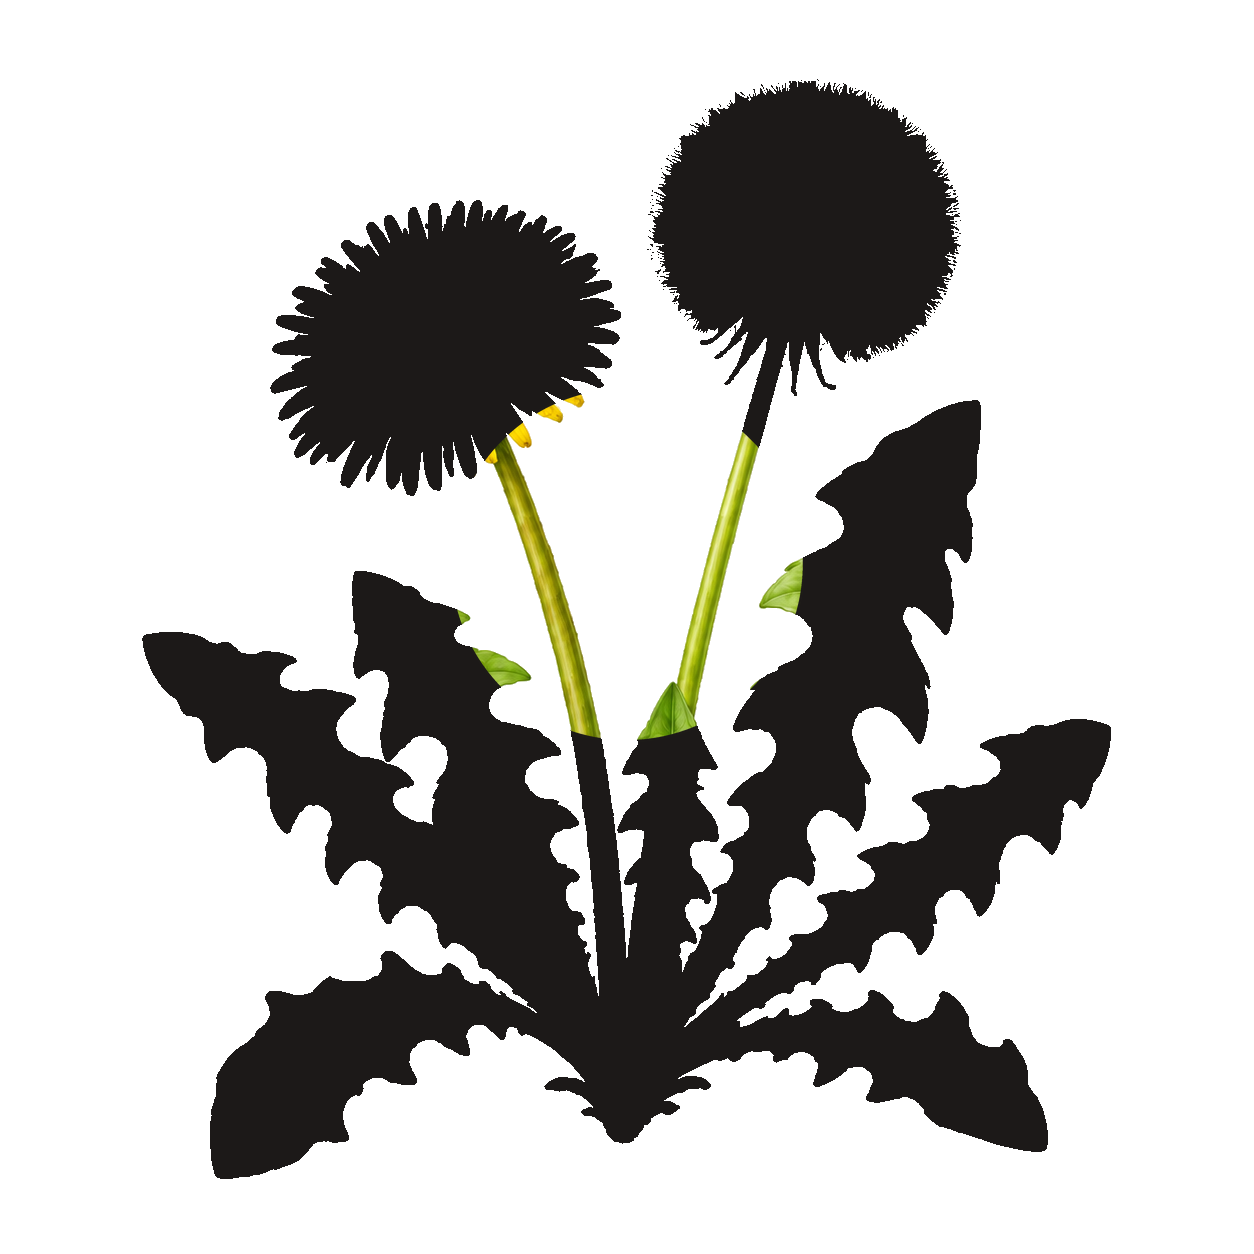
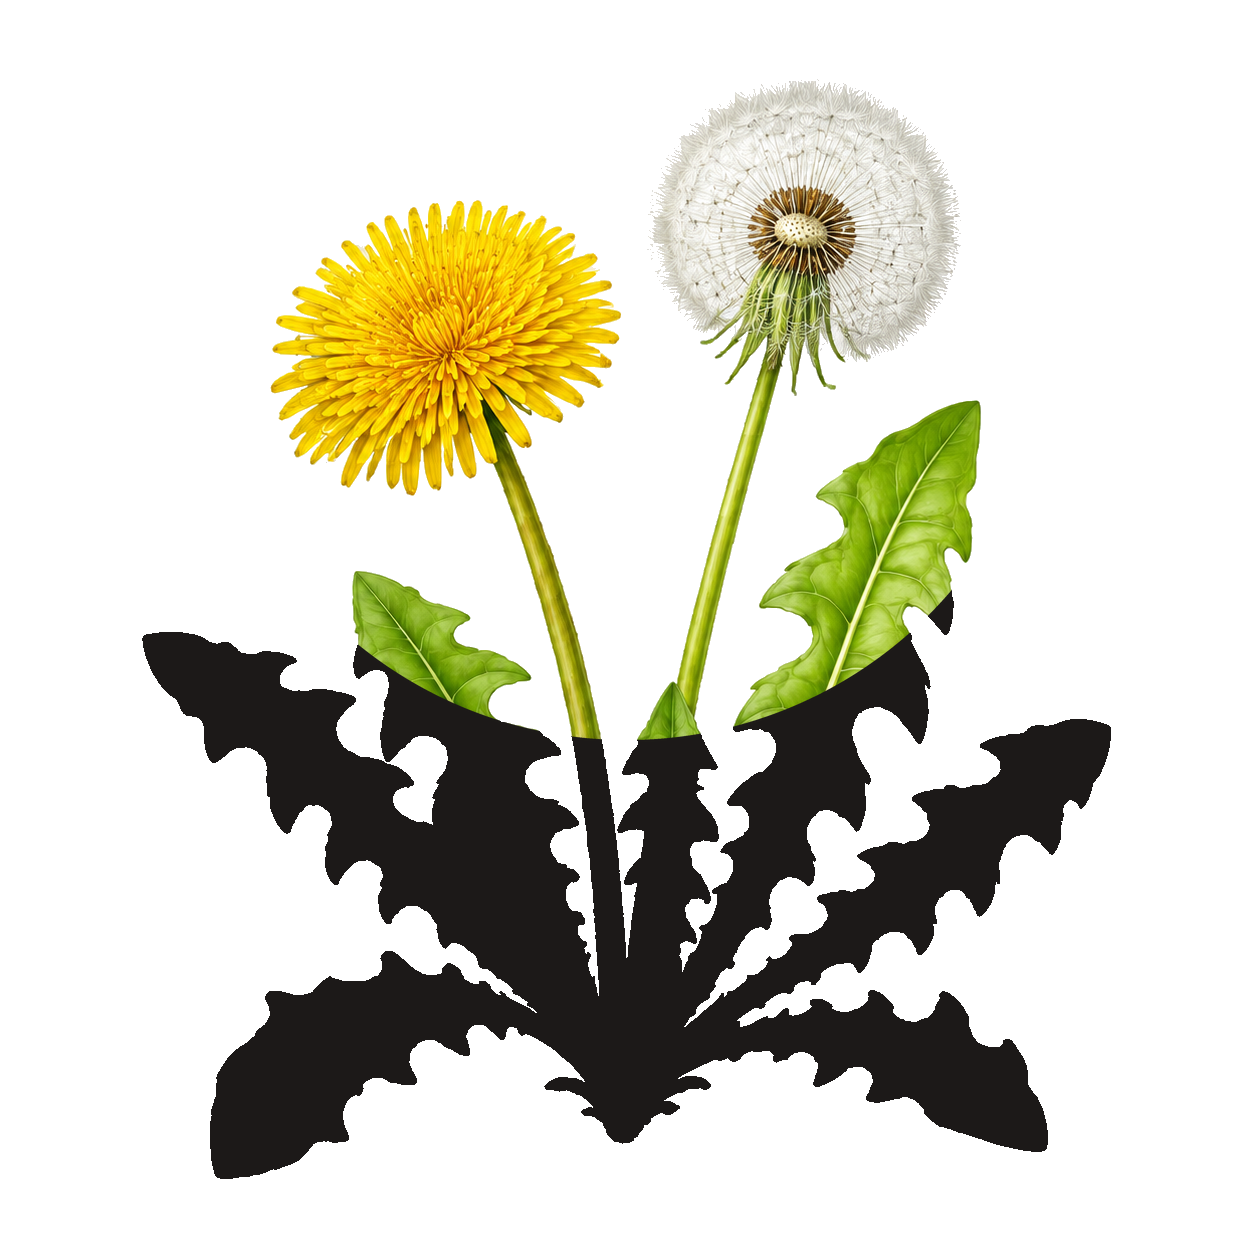
fix: show dandelion flower and seed head in quiz hint

diff --git a/scripts/remove_white_background.py b/scripts/remove_white_background.py
@@ -25,6 +25,8 @@ from src.paths import (
 
 DEFAULT_HIGHLIGHT = Highlight("いろの ぶぶん", 0.5, 0.45, 0.14)
 SHOKUBUTSU_HIGHLIGHTS = {
+    # きいろい花と、しろいわた毛を一度に見せる。
+    "tanpopo": Highlight("はなと わたげ", 0.5, 0.25, 0.34),
     # うつぼかずららしさが分かる、中央につり下がったつぼを見せる。
     "utsubokazura": Highlight("つぼの ぶぶん", 0.5, 0.73, 0.19),
 }
